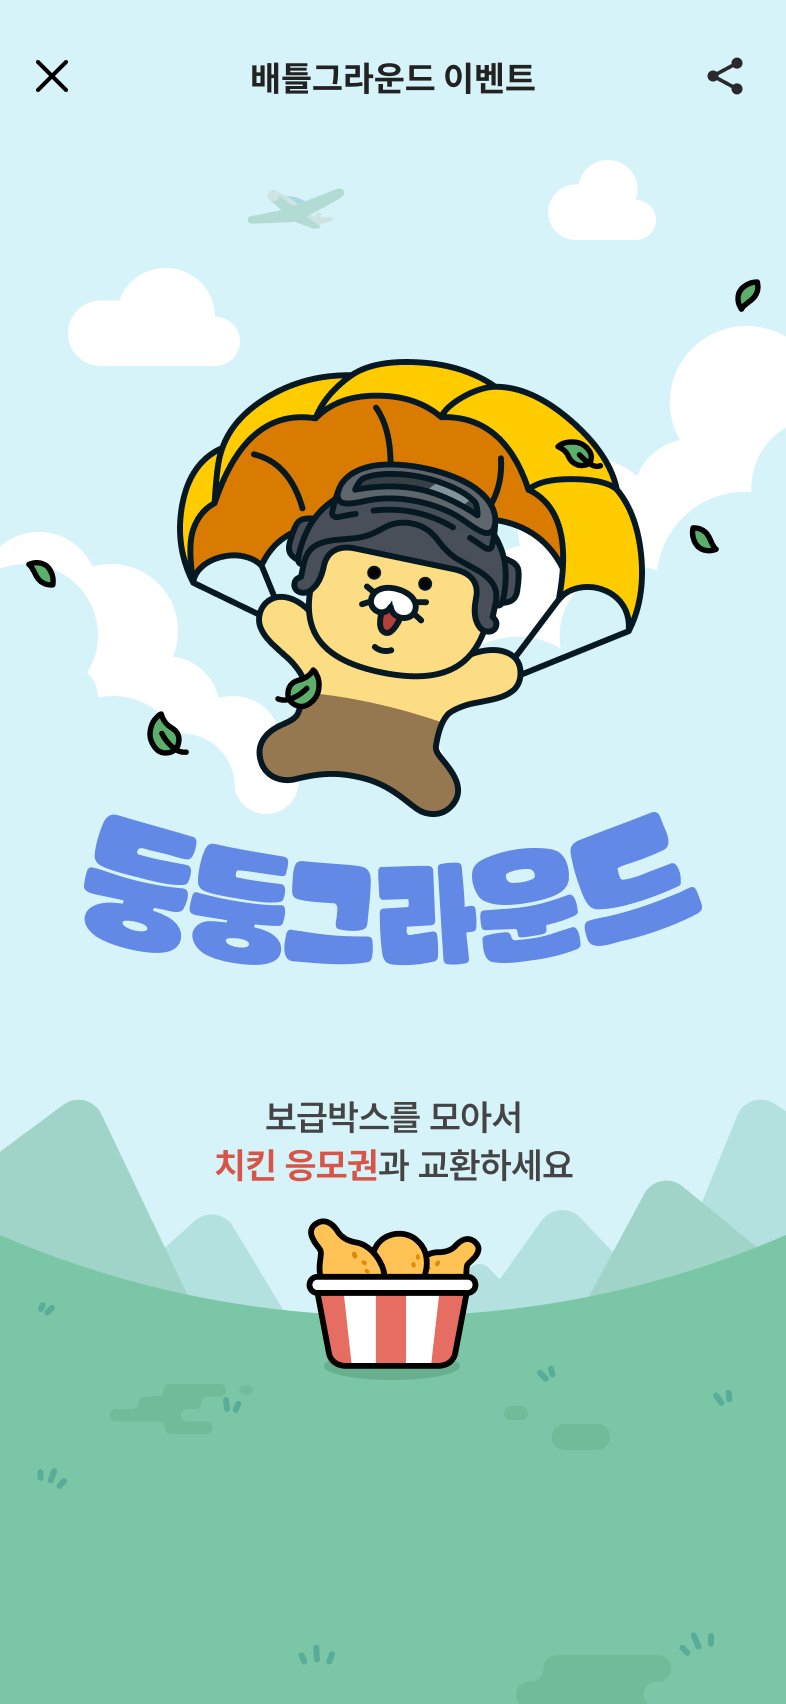
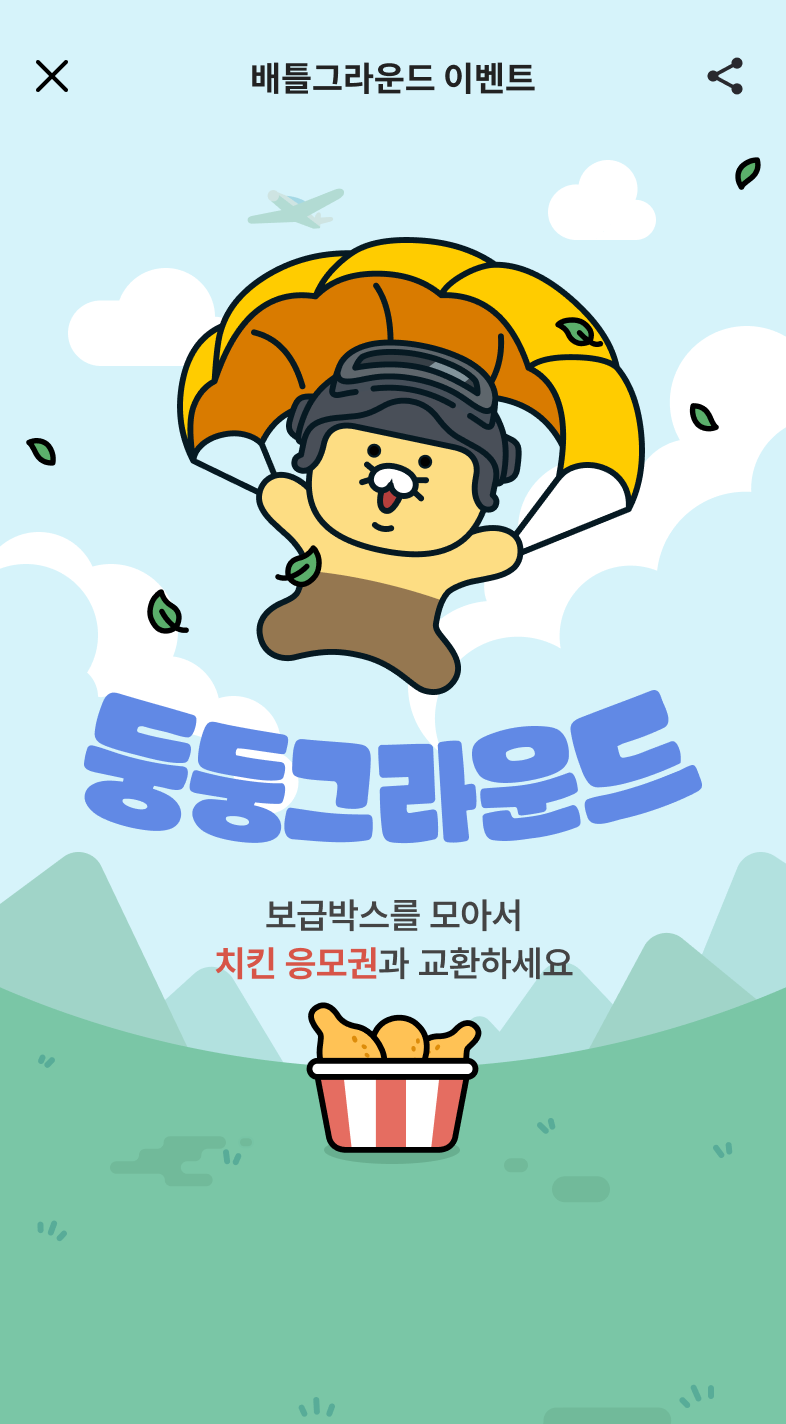
Add files via upload

diff --git a/index.html b/index.html
@@ -2,12 +2,12 @@
 <html lang="ko">
 <head>
     <meta charset="UTF-8">
-    <meta name="viewport" content="width=393, height=852, initial-scale=1.0, maximum-scale=1.0, user-scalable=no, viewport-fit=cover">
-    <title>둥둥그라운드 v1.6.2.2 - 표정 시간 조정</title>
+    <meta name="viewport" content="width=393, height=712, initial-scale=1.0, maximum-scale=1.0, user-scalable=no, viewport-fit=cover">
+    <title>둥둥그라운드 v1.6.2.2 - 보급상자 강화 버전</title>
     <style>
         @import url('https://cdn.jsdelivr.net/gh/orioncactus/pretendard/dist/web/static/pretendard.css');
         body { margin: 0; padding: 0; background-color: #333; font-family: 'Pretendard', sans-serif; overflow: hidden; touch-action: none; user-select: none; display: flex; justify-content: center; align-items: center; height: 100vh; }
-        #game-container { position: relative; width: 393px; height: 852px; overflow: hidden; background: #C0EEFE; box-shadow: 0 0 50px rgba(0,0,0,0.5); }
+        #game-container { position: relative; width: 393px; height: 712px; overflow: hidden; background: #C0EEFE; box-shadow: 0 0 50px rgba(0,0,0,0.5); }
         canvas { display: block; width: 100%; height: 100%; outline: none; -webkit-tap-highlight-color: transparent; }
         #hud { position: absolute; top: 0; left: 0; width: 100%; z-index: 50; display: none; pointer-events: none; }
         .nav-bar img { width: 100%; display: block; }
@@ -59,7 +59,7 @@
 
 <script>
     const canvas = document.getElementById('gameCanvas');
-    const WIDTH = 393 * 2, HEIGHT = 852 * 2;
+    const WIDTH = 393 * 2, HEIGHT = 712 * 2; 
     canvas.width = WIDTH; canvas.height = HEIGHT;
     const ctx = canvas.getContext('2d');
 
@@ -77,7 +77,6 @@
     let pDir = 1, objects = [], clouds = [], fx = [];
     let stopSpawning = false, mountainX = 0, grassX = 0, hitShakeFrame = 0;
     
-    // 표정 관리 변수
     let faceTimer = 0;
     let currentFace = 'normal';
 
@@ -97,14 +96,13 @@
     }
 
     function refillSpawnDeck() {
+        // 보급상자(CRATE) 비중을 대폭 늘려 1.5배 더 자주 나오게 구성
         let newItems = [
-            'GOLD', 'BAD', 'BAD', 'BAD', 'BAD', 'BAD', 'BAD', 'BAD', 'BAD', 'BAD', 'BAD', 
-            'CRATE', 'CRATE', 'CRATE', 'CRATE', 'CRATE', 'CRATE', 'CRATE', 'CRATE', 'CRATE', 'CRATE', 
-            'CRATE', 'CRATE', 'CRATE', 'CRATE', 'CRATE', 'CRATE', 'CRATE', 'CRATE', 'CRATE', 'CRATE', 
-            'CRATE', 'CRATE', 'CRATE', 'CRATE', 'CRATE', 'CRATE', 'CRATE', 'CRATE', 'CRATE', 'CRATE',
-            'CRATE', 'CRATE', 'CRATE', 'CRATE', 'CRATE', 'CRATE', 'CRATE', 'CRATE', 'CRATE', 'CRATE',
-            'CRATE', 'CRATE', 'CRATE', 'CRATE', 'CRATE', 'CRATE'
+            'GOLD', 'BAD', 'BAD', 'BAD', 'BAD', 'BAD', 'BAD', 'BAD', 'BAD', 'BAD', 'BAD'
         ];
+        // 기존 대비 CRATE 아이템을 약 1.5배(60개 -> 90개) 늘림
+        for(let i=0; i<90; i++) { newItems.push('CRATE'); }
+
         for (let i = newItems.length - 1; i > 0; i--) { const j = Math.floor(Math.random() * (i + 1)); [newItems[i], newItems[j]] = [newItems[j], newItems[i]]; }
         spawnDeck = [...spawnDeck, ...newItems];
     }
@@ -119,22 +117,34 @@
         if(stopSpawning) return;
         if(spawnDeck.length < 5) refillSpawnDeck();
         const type = spawnDeck.shift(); 
-        let x = Math.random() * (WIDTH - 100) + 50; 
+        let x = Math.random() * (WIDTH - 120) + 60; 
         const spawnY = HEIGHT + 200;
+
         if(type === 'BAD') {
             const tooClose = objects.some(o => o.type === 'BAD' && Math.abs(o.x - x) < 180); 
-            if(tooClose) x = (x + 250) % (WIDTH - 100) + 50;
+            if(tooClose) x = (x + 250) % (WIDTH - 120) + 60;
             objects.push({ x, y: spawnY, type: 'BAD', img: imgs.heli });
         } else if(type === 'GOLD') {
             objects.push({ x, y: spawnY, type: 'GOLD', img: imgs.gold });
         } else {
-            objects.push({ x, y: spawnY, type: 'CRATE', img: imgs.crate });
-            if(Math.random() > 0.75) objects.push({ x: (x + 150) % (WIDTH - 100) + 50, y: spawnY + 80, type: 'CRATE', img: imgs.crate });
+            // 보급상자 패턴 다양화
+            const patternRand = Math.random();
+            if(patternRand > 0.85) { 
+                // 패턴 1: 수평 나란히 2개
+                objects.push({ x: Math.max(80, x - 70), y: spawnY, type: 'CRATE', img: imgs.crate });
+                objects.push({ x: Math.min(WIDTH - 80, x + 70), y: spawnY, type: 'CRATE', img: imgs.crate });
+            } else if(patternRand > 0.7) {
+                // 패턴 2: 약간의 높이차를 둔 계단식 2개
+                objects.push({ x, y: spawnY, type: 'CRATE', img: imgs.crate });
+                objects.push({ x: (x + 150) % (WIDTH - 120) + 60, y: spawnY + 120, type: 'CRATE', img: imgs.crate });
+            } else {
+                // 패턴 3: 기본 단일 생성
+                objects.push({ x, y: spawnY, type: 'CRATE', img: imgs.crate });
+            }
         }
     }
 
     function triggerGoldFever() {
-        // 황금고구마 획득 시 표정 변화 (1.3초 = 78프레임)
         currentFace = 'happy';
         faceTimer = 78;
         objects.forEach(o => { if(o.type === 'CRATE') score++; fx.push({ x: o.x, y: o.y, img: imgs.effect, life: 108, follow: false, vx: 0, vy: -GLOBAL_SPEED, type: 'PICKUP' }); });
@@ -204,11 +214,8 @@
             if(state === 'PLAY' && Math.sqrt(dx*dx + dy*dy) < 115) {
                 if(o.type === 'BAD') {
                     lives--; updateLifeUI(); hitShakeFrame = 10; flashFrame = 10;
-                    
-                    // 헬기 충돌 시 표정 변화 (1.3초 = 78프레임)
                     currentFace = 'miss';
                     faceTimer = 78;
-
                     fx.push({ x: pX, y: pY - 140, img: imgs.damage, life: 40, follow: true, type: 'DAMAGE', scale: 0.8 });
                     if(lives <= 0) setTimeout(() => { gameOver("작전 실패..."); }, 500);
                 } else if(o.type === 'GOLD') triggerGoldFever();
